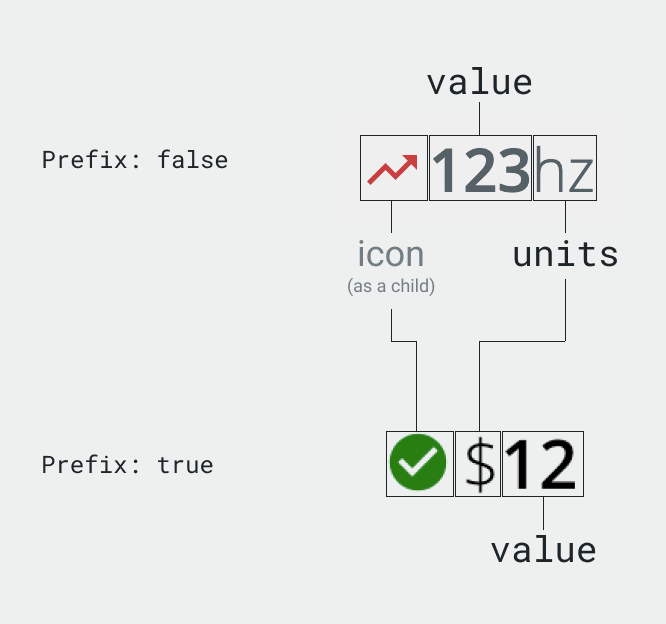
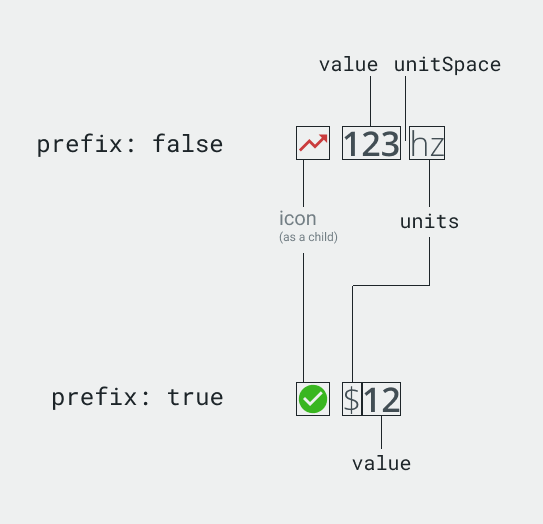
update image, remove function

diff --git a/components/src/core/channel-value/channel-value.component.ts b/components/src/core/channel-value/channel-value.component.ts
@@ -19,7 +19,7 @@ type UnitSpaceType = 'show' | 'hide' | 'auto';
             <div
                 *ngIf="units && prefix"
                 class="pxb-channel-value-units"
-                [class.pxb-channel-value-units-prefix]="!checkWhiteListUnits() || unitSpace === 'show'"
+                [class.pxb-channel-value-units-prefix]="!isWhiteListedUnit || unitSpace === 'show'"
             >
                 {{ units }}
             </div>
@@ -34,7 +34,7 @@ type UnitSpaceType = 'show' | 'hide' | 'auto';
             <div
                 *ngIf="units && !prefix"
                 class="pxb-channel-value-units"
-                [class.pxb-channel-value-units-suffix]="!checkWhiteListUnits() || unitSpace === 'show'"
+                [class.pxb-channel-value-units-suffix]="!isWhiteListedUnit || unitSpace === 'show'"
             >
                 {{ units }}
             </div>
@@ -75,15 +75,11 @@ export class ChannelValueComponent implements OnChanges {
 
     prefixUnitWhitelist = ['$'];
     suffixUnitWhitelist = ['%', '℉', '°F', '℃', '°C', '°'];
-
+    isWhiteListedUnit = false;
     ngOnChanges(): void {
         requireInput<ChannelValueComponent>(['value'], this);
-    }
-
-    checkWhiteListUnits(): boolean {
-        if (this.prefix) {
-            return this.prefixUnitWhitelist.includes(this.units);
-        }
-        return this.suffixUnitWhitelist.includes(this.units);
+        this.isWhiteListedUnit = this.prefix
+            ? this.prefixUnitWhitelist.includes(this.units)
+            : this.suffixUnitWhitelist.includes(this.units);
     }
 }

diff --git a/components/src/core/channel-value/channel-value.component.spec.ts b/components/src/core/channel-value/channel-value.component.spec.ts
@@ -36,7 +36,7 @@ describe('ChannelValueComponent', () => {
         void expect(component).toBeTruthy();
     });
 
-    fit('should render a value', () => {
+    it('should render a value', () => {
         component.value = 'Test Value';
         fixture.detectChanges();
         const value = fixture.nativeElement.querySelector('.pxb-channel-value-value');

diff --git a/docs/ChannelValue.md b/docs/ChannelValue.md
@@ -42,8 +42,8 @@ Parent element (`<pxb-channel-value>`) attributes:
 | ---------- | ---------------------------------------------- | -------------------------------- | -------- | ------  |
 | prefix     | If true, shows units before the value          | `boolean`                        | no       | false   |
 | units      | Text to display for the units                  | `string`                         | no       |         |
-| value      | Text to display for the value                  | `string` \| `number`             | yes      |         |
 | unitSpace  | Show/Hide spacing between the value and units  | `'auto'` \| `'hide'` \| `'show'` | yes      | 'auto'  |
+| value      | Text to display for the value                  | `string` \| `number`             | yes      |         |
 
 </div>
 

diff --git a/CHANGELOG.md b/CHANGELOG.md
@@ -1,8 +1,8 @@
 # Change Log
 
+## v6.0.0 (Unreleased)
 ### Added
-## 6.0.0 (Unreleased)
--   `unitSpace` prop to `<pxb-channel-value>` to manage spacing between the value and units.
+-   Added new property `unitSpace` to `<pxb-channel-value>` to manage spacing between the value and units.
 ## v5.0.1 (July 30, 2021)
 
 ### Added
